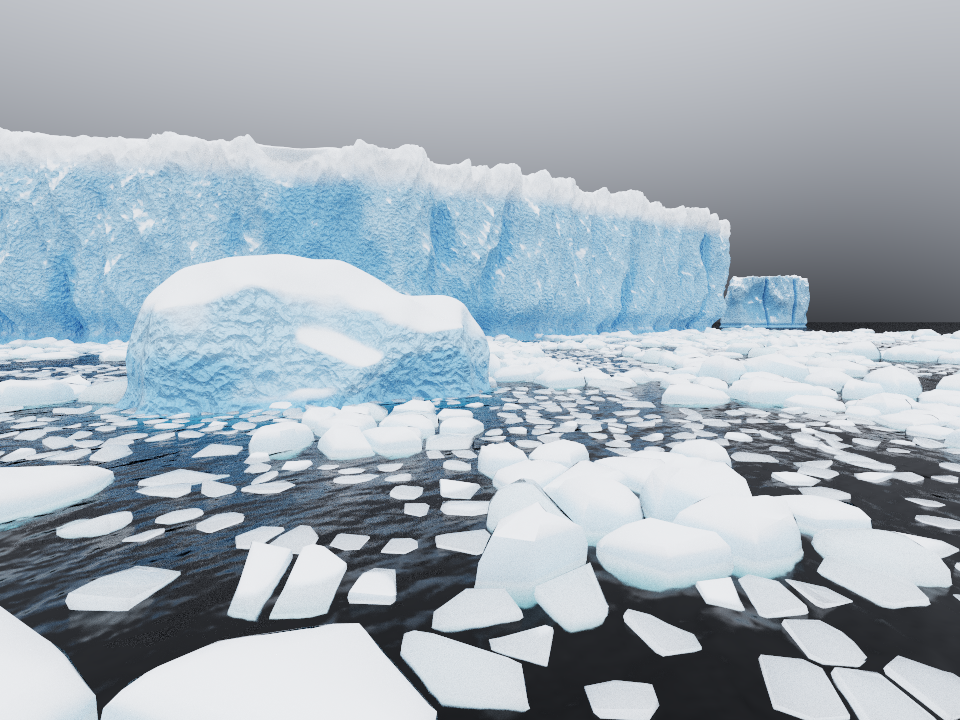
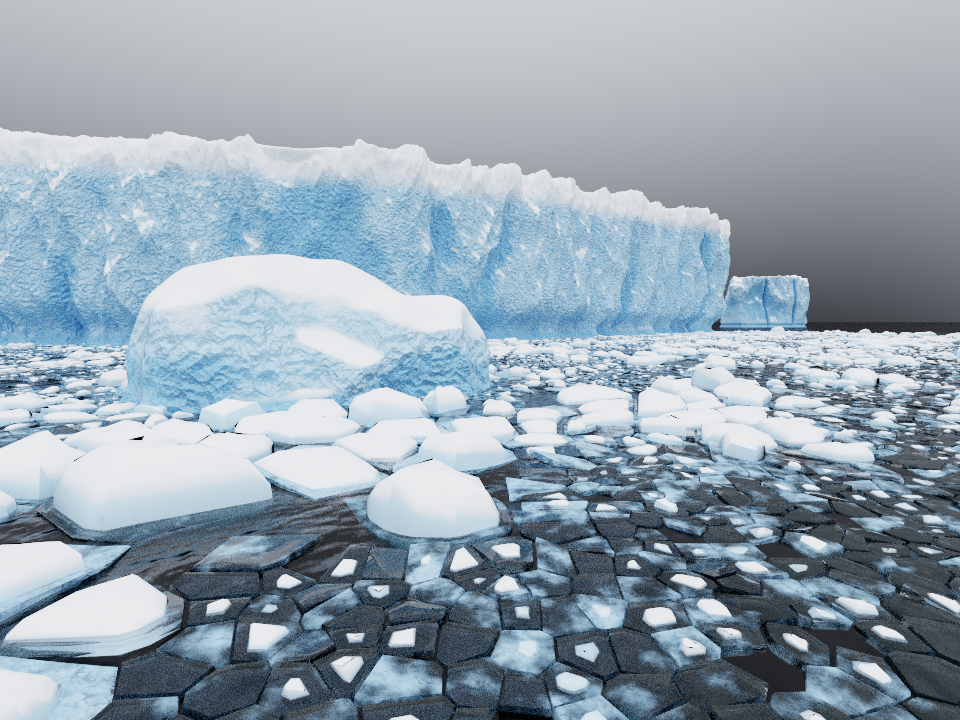
Brash ice: every cell slush, with a shard of ice inside
Every Voronoi cell is now ice (but for lanes of open water): filled
with slush, a thin sheet of clear ice (a dielectric) with cloudy
patches and the dark water showing through, and inside it a shard of
white ice, the cell pulled in with corners broken off. Slushiness goes
by cell size: large cells are nearly all shard, small ones mostly
slush. The scene gives the background a dark ground for rays that pass
down through the clear ice.

Claude-Session: https://claude.ai/code/session_01U8ZZipMaWkahSeibBW3vnt

diff --git a/src/procedural/iceberg.rs b/src/procedural/iceberg.rs
@@ -58,11 +58,11 @@
 //! of glacier ice, each floating at its own waterline, notched there and spreading in a
 //! skirt just below, as the bergs are. With a scene's ocean, every piece rides its waves:
 //! raised or lowered with the surface where it floats, and tipped with its slope.
+use crate::color::Color;
 use crate::geometry::{rand, Pcg32};
 use crate::intersection::Intersection;
 use crate::material::model::{MaterialModel, ScatteredRay};
 use crate::material::snow::{Ice, IceStyle, Snow, SnowStyle};
-use crate::material::subsurface::{Coefficients, Subsurface};
 use crate::na::{Rotation3, Vector3};
 use crate::noise::SeededNoise;
 use crate::procedural::nubis_clouds::smoothstep;
@@ -586,12 +586,12 @@ pub fn creased(mesh: &IndexedMesh, crease: f64) -> IndexedMesh {
 /// far each point was cut back (`fresh`, a texture coordinate), and that picks between
 /// `snow::Ice`'s white, bubbly and blue ice, all the same physics with different bubbles.
 ///
-/// Small pieces (`translucent`) are instead lit through: light wanders inside them
-/// (`material::subsurface`, with ice's own absorption and its bubbles' scattering), so thin
-/// edges glow and thick parts are bluer.
+/// For brash ice (`brash`) it shades white shards standing in slush: a sheet of clear ice
+/// (a dielectric) with cloudy patches, the dark water showing through.
 pub struct IcebergMaterial {
     pub sea_level: f64,
-    body: Option<Subsurface>,
+    /// For brash: the clear ice of its slush.
+    glass: Option<crate::material::dielectric::Dielectric>,
     white: Ice,
     glacier: Ice,
     blue: Ice,
@@ -603,16 +603,12 @@ pub struct IcebergMaterial {
     noise: SeededNoise,
 }
 
-/// The reduced scattering coefficient of a small piece's ice, per metre: light travels a
-/// quarter of a metre between changes of direction.
-pub const ICE_SCATTERING: f64 = 4.;
-
 impl IcebergMaterial {
     pub fn new(sea_level: f64, size: f64, seed: u64) -> IcebergMaterial {
         let clean = |preset: &str, roughness: f64| Ice::new(IceStyle { impurities: Default::default(), roughness, ..IceStyle::preset(preset) });
         IcebergMaterial {
             sea_level,
-            body: None,
+            glass: None,
             white: clean("white", 0.3),
             glacier: clean("glacier", 0.15),
             // Dense ice with few bubbles, as deep in a glacier: a saturated blue.
@@ -624,13 +620,12 @@ impl IcebergMaterial {
         }
     }
 
-    /// Lit through, for small pieces.
-    pub fn translucent(self) -> IcebergMaterial {
+    /// For brash ice: shards of white ice standing in slush, a sheet of clear ice.
+    pub fn brash(self) -> IcebergMaterial {
         IcebergMaterial {
-            body: Some(Subsurface {
-                coefficients: Coefficients::Ice { scattering: ICE_SCATTERING, impurities: Default::default() },
-                g: 0.,
-                refractive_index: crate::material::snow::ICE_REFRACTIVE_INDEX,
+            glass: Some(crate::material::dielectric::Dielectric {
+                refractive_index: crate::spectrum::RefractiveIndex::Constant(crate::material::snow::ICE_REFRACTIVE_INDEX),
+                attenuate: Color::white(),
             }),
             ..self
         }
@@ -685,21 +680,29 @@ impl MaterialModel for IcebergMaterial {
         let outside = r.rd.dot(&intersection.normal) < 0.;
         let i = &intersection.facing(r);
         let f = crate::material::functions::scatter_bsdf;
-        let (snow, fresh) = if self.body.is_some() { (if fresh > 0.5 { 0. } else { snow }, fresh) } else { (snow, fresh) };
+        if let Some(glass) = &self.glass {
+            // Brash: the first texture coordinate says slush, the second how cloudy it is.
+            if fresh > 0.5 {
+                // Clear ice, the dark water showing through, with cloudy patches of bubbles
+                // and of snow frozen in.
+                let p = intersection.point;
+                let cloud = smoothstep(0.35, 0.7, firn + 0.5 * self.noise.fbm(Vector3::new(p.x, 0., p.z) / 0.35, 4));
+                return if rand() < 0.85 * cloud {
+                    let normal = self.bumped(&i.point, &i.normal, &-r.rd.normalize());
+                    f(&self.clear.bsdf(&normal, Some(s)), r, &i.point, s)
+                } else {
+                    glass.scatter(r, intersection, s)
+                };
+            }
+            // A shard: snow on top, white ice at its broken sides.
+            return if outside && rand() < snow {
+                f(&self.snow.bsdf(&i.point, &i.normal, Some(s)), r, &i.point, s)
+            } else {
+                f(&self.white.bsdf(&i.normal, Some(s)), r, &i.point, s)
+            };
+        }
         if outside && rand() < snow {
             return f(&self.snow.bsdf(&i.point, &i.normal, Some(s)), r, &i.point, s);
-        }
-        if let Some(body) = &self.body {
-            // Brash: for it the first texture coordinate says a piece is clear ice.
-            // (Wet pieces are bare: light goes into them, and thin ones show the dark water.)
-            if fresh > 0.5 {
-                return body.scatter(r, intersection, s);
-            }
-            return if outside && rand() < 0.6 * white {
-                f(&self.white.bsdf(&i.normal, Some(s)), r, &i.point, s)
-            } else {
-                body.scatter(r, intersection, s)
-            };
         }
         let u = rand();
         let ice = if u < white { &self.white } else if u < white + blue { &self.blue } else { &self.glacier };
@@ -841,16 +844,19 @@ impl FloeField {
         }
     }
 
-    /// Brash ice, by partitioning the sea's surface: sites are scattered at a density that
-    /// varies from place to place (a coarse grid of `max_size` cells, each split into 1, 4 or
-    /// 16, or for slush into many), and the surface divided into their Voronoi cells, so the
-    /// cells' sizes vary as widely. Each coarse cell is ice, slush or open water, by a random
-    /// draw shifted by a smooth noise so that like gathers with like (floes in rafts, lanes of
-    /// water between). An ice cell becomes one angular chunk: its Voronoi polygon, pulled in
-    /// from its neighbours, with corners broken off by random chords, extruded to a slab that
-    /// floats with a ninth of it above water, a little tilted, its top lumpy with snow. Slush
-    /// is the same at a small scale: small thin fragments, most of them wet and glossy, with
-    /// gaps between.
+    /// Brash ice, by partitioning the sea's surface. Sites are scattered at a density that
+    /// varies from place to place (a coarse grid of `max_size` cells, each split 1, 2, 4 or 8
+    /// ways a side), and the surface divided into their Voronoi cells, so the cells' sizes
+    /// vary as widely. Every cell is ice, but for a share left as open water (by a draw
+    /// shifted by a smooth noise, so that the water gathers in lanes):
+    ///
+    /// - the cell is filled with slush: a thin sheet of clear ice at the water's surface,
+    ///   glassy, with the dark water showing through and cloudy white patches;
+    /// - and inside it stands a shard of white ice: the cell's polygon pulled in, with corners
+    ///   broken off by random chords, extruded to a slab with a hummocked, snowy top.
+    ///
+    /// How slushy a cell is goes by its size: a large cell is nearly all shard, a small one
+    /// mostly slush with a small shard or none.
     fn brash(&self) -> IndexedMesh {
         let mut rng = Pcg32::new(self.seed, 47);
         let noise = SeededNoise::new(self.seed.wrapping_add(7));
@@ -861,37 +867,24 @@ impl FloeField {
         let nz = (self.extent.1 / coarse).ceil().max(1.) as usize;
         let clump_size = 5. * coarse;
         let p_ice = self.concentration.clamp(0., 1.);
-        let p_slush = 0.6 * (1. - p_ice);
-        // Sites: position, kind (0 water, 1 ice, 2 slush), and the spacing they were laid at.
-        let mut sites: Vec<(f64, f64, u8, f64)> = vec![];
+        // Sites: position, whether ice, and the spacing they were laid at.
+        let mut sites: Vec<(f64, f64, bool, f64)> = vec![];
         let mut buckets: Vec<Vec<usize>> = vec![vec![]; nx * nz];
-        let fine = ((coarse / self.min_size).round() as usize).clamp(2, 10);
+        let finest = ((coarse / self.min_size).round() as usize).clamp(1, 8);
         for j in 0..nz {
             for i in 0..nx {
                 let (cx, cz) = (x0 + (i as f64 + 0.5) * coarse, z0 + (j as f64 + 0.5) * coarse);
                 let n = clumps.fbm(Vector3::new(cx, 0., cz) / clump_size, 3);
-                let v = rng.next_f64() + 1.5 * self.clumping * n;
-                let kind = if v > 1. - p_ice { 1 } else if v > 1. - p_ice - p_slush { 2 } else { 0 };
-                // How finely this cell is split: ice into one, four or sixteen pieces (large
-                // ones rarer), slush finely, water coarsely (it only shapes its neighbours).
-                let split = match kind {
-                    1 => { let u = rng.next_f64(); if u < 0.2 { 1 } else if u < 0.6 { 2 } else { 4 } },
-                    2 => fine,
-                    _ => 2,
-                };
+                let u = rng.next_f64();
+                let split = (if u < 0.1 { 1 } else if u < 0.35 { 2 } else if u < 0.7 { 4 } else { 8 }).min(finest);
                 let step = coarse / split as f64;
                 for b in 0..split {
                     for a in 0..split {
                         let x = x0 + i as f64 * coarse + (a as f64 + 0.15 + 0.7 * rng.next_f64()) * step;
                         let z = z0 + j as f64 * coarse + (b as f64 + 0.15 + 0.7 * rng.next_f64()) * step;
-                        // Slush is part fragments, part water; a floe's edge crumbles too.
-                        let k = match kind {
-                            2 => if rng.next_f64() < 0.6 { 2 } else { 0 },
-                            1 => if split > 1 && rng.next_f64() < 0.12 { 0 } else { 1 },
-                            _ => 0,
-                        };
+                        let ice = rng.next_f64() + 1.5 * self.clumping * n > 1. - p_ice;
                         buckets[j * nx + i].push(sites.len());
-                        sites.push((x, z, k, step));
+                        sites.push((x, z, ice, step));
                     }
                 }
             }
@@ -916,66 +909,19 @@ impl FloeField {
             }
             out
         };
-        for (index, &(sx, sz, kind, step)) in sites.iter().enumerate() {
-            if kind == 0 { continue; }
-            // The site's Voronoi cell: a square about it, cut by the bisector with each site near.
-            let w = 1.5 * step;
-            let mut poly = vec![(sx - w, sz - w), (sx - w, sz + w), (sx + w, sz + w), (sx + w, sz - w)];
-            let (ci, cj) = ((((sx - x0) / coarse) as usize).min(nx - 1), (((sz - z0) / coarse) as usize).min(nz - 1));
-            for j in cj.saturating_sub(1)..=(cj + 1).min(nz - 1) {
-                for i in ci.saturating_sub(1)..=(ci + 1).min(nx - 1) {
-                    for &o in &buckets[j * nx + i] {
-                        if o == index { continue; }
-                        let (ox, oz, _, _) = sites[o];
-                        let (dx, dz) = (ox - sx, oz - sz);
-                        let len = dx.hypot(dz);
-                        if len < 1e-9 || len > 4. * w { continue; }
-                        poly = clip(&poly, (sx + dx / 2., sz + dz / 2.), (dx / len, dz / len));
-                        if poly.len() < 3 { break; }
-                    }
-                }
-            }
-            if poly.len() < 3 { continue; }
-            // Pulled in from its neighbours about its centroid (slush more, leaving gaps).
-            let n = poly.len() as f64;
-            let (gx, gz) = poly.iter().fold((0., 0.), |a, p| (a.0 + p.0 / n, a.1 + p.1 / n));
-            let shrink = if kind == 2 { 0.55 + 0.35 * rng.next_f64() } else { 0.86 + 0.1 * rng.next_f64() };
-            let mut poly: Vec<(f64, f64)> = poly.iter().map(|p| (gx + (p.0 - gx) * shrink, gz + (p.1 - gz) * shrink)).collect();
-            // Corners broken off by chords: an angular chunk.
-            let radius = poly.iter().map(|p| (p.0 - gx).hypot(p.1 - gz)).fold(0., f64::max);
-            for _ in 0..2 + (rng.next_f64() * 4.) as usize {
-                let a = rng.next_f64() * TAU;
-                let r = radius * (0.45 + 0.45 * rng.next_f64());
-                let cut = clip(&poly, (gx + a.cos() * r, gz + a.sin() * r), (a.cos(), a.sin()));
-                if cut.len() >= 3 { poly = cut; }
-            }
-            let radius = poly.iter().map(|p| (p.0 - gx).hypot(p.1 - gz)).fold(0., f64::max);
-            if radius < 0.03 { continue; }
-            // A slab: thick for its width if it is glacier ice broken small, thin for slush.
-            let thick = if kind == 2 { radius * (0.25 + 0.3 * rng.next_f64()) } else { (radius * (0.45 + 0.5 * rng.next_f64())).min(2.5) };
-            let (top, bottom) = (0.115 * thick, -0.885 * thick);
-            let bevel = (0.25 * thick).min(0.3 * radius);
-            // Ice broken from a berg is a lump, not a tile: it stands up out of the water in
-            // hummocks (its bulk hangs below). Slush lies flat.
-            let lumpy = if kind == 2 { 0.3 } else { 1.2 + 2.5 * rng.next_f64().powi(2) };
-            let start = positions.len();
+        // A closed solid from rings of a polygon's outline about (gx, gz): each ring is how far
+        // in towards the centre and its height; with a middle point above and below. `bump`
+        // raises a point of ring k.
+        let solid = |poly: &[(f64, f64)], (gx, gz): (f64, f64), rings: &[(f64, f64)], bump: &dyn Fn(f64, f64, usize) -> f64| -> (Vec<Vector3<f64>>, Vec<[usize; 3]>) {
             let m = poly.len();
-            // Rings of the outline: (how far in towards the centroid, height), from the top's
-            // middle down round the edge to the bottom's middle. The top is lumpy.
-            let rings = [(0.45, top + 0.6 * bevel), (0.8, top + 0.4 * bevel), (0.97, top), (1., top - bevel), (0.92, 0.5 * bottom), (0.6, bottom)];
-            let bump = |x: f64, z: f64, k: usize| if k < 3 {
-                let inward = [1., 0.75, 0.3][k];
-                lumpy * bevel * inward * (0.6 * noise.fbm(Vector3::new(x, 0.3 * index as f64, z) / (0.5 * radius), 3) + 0.5).max(0.)
-            } else { 0. };
-            let mut piece: Vec<Vector3<f64>> = vec![];
-            piece.push(Vector3::new(gx, top + 0.7 * bevel + 1.2 * bump(gx, gz, 0), gz));
+            let mut piece = vec![Vector3::new(gx, rings[0].1 + bump(gx, gz, 0), gz)];
             for (k, &(f, y)) in rings.iter().enumerate() {
-                for &(x, z) in &poly {
+                for &(x, z) in poly {
                     let (px, pz) = (gx + (x - gx) * f, gz + (z - gz) * f);
                     piece.push(Vector3::new(px, y + bump(px, pz, k), pz));
                 }
             }
-            piece.push(Vector3::new(gx, bottom, gz));
+            piece.push(Vector3::new(gx, rings[rings.len() - 1].1, gz));
             let mut tris: Vec<[usize; 3]> = vec![];
             for k in 0..m {
                 let k1 = (k + 1) % m;
@@ -991,20 +937,78 @@ impl FloeField {
             // Wound outwards, whichever way round the polygon came.
             let volume: f64 = tris.iter().map(|t| piece[t[0]].dot(&piece[t[1]].cross(&piece[t[2]]))).sum();
             if volume < 0. { for t in tris.iter_mut() { t.swap(1, 2); } }
-            // Tilted a little (small pieces more), and riding the waves.
-            let tip = (if kind == 2 { 0.25 } else { 0.06 + 0.1 / (1. + radius) }) * rng.next_f64();
-            let lean = rng.next_f64() * TAU;
-            let tilt = Rotation3::from_axis_angle(&crate::na::Unit::new_normalize(Vector3::new(lean.cos(), 0., lean.sin())), tip);
+            (piece, tris)
+        };
+        for (index, &(sx, sz, ice, step)) in sites.iter().enumerate() {
+            if !ice { continue; }
+            // The site's Voronoi cell: a square about it, cut by the bisector with each site near.
+            let w = 1.5 * step;
+            let mut cell = vec![(sx - w, sz - w), (sx - w, sz + w), (sx + w, sz + w), (sx + w, sz - w)];
+            let (ci, cj) = ((((sx - x0) / coarse) as usize).min(nx - 1), (((sz - z0) / coarse) as usize).min(nz - 1));
+            for j in cj.saturating_sub(1)..=(cj + 1).min(nz - 1) {
+                for i in ci.saturating_sub(1)..=(ci + 1).min(nx - 1) {
+                    for &o in &buckets[j * nx + i] {
+                        if o == index || cell.len() < 3 { continue; }
+                        let (ox, oz, _, _) = sites[o];
+                        let (dx, dz) = (ox - sx, oz - sz);
+                        let len = dx.hypot(dz);
+                        if len < 1e-9 || len > 4. * w { continue; }
+                        cell = clip(&cell, (sx + dx / 2., sz + dz / 2.), (dx / len, dz / len));
+                    }
+                }
+            }
+            if cell.len() < 3 { continue; }
+            let n = cell.len() as f64;
+            let centre = cell.iter().fold((0., 0.), |a, p| (a.0 + p.0 / n, a.1 + p.1 / n));
+            let (gx, gz) = centre;
+            let radius = cell.iter().map(|p| (p.0 - gx).hypot(p.1 - gz)).fold(0., f64::max);
+            if radius < 0.03 { continue; }
             let (rise, ride) = self.ride(&Floe { x: gx, z: gz, radius });
             let pivot = Vector3::new(gx, 0., gz);
-            for p in piece.iter_mut() {
-                *p = ride * (tilt * (*p - pivot)) + pivot + Vector3::new(0., self.sea_level + rise, 0.);
+            let mut emit = |piece: Vec<Vector3<f64>>, tris: Vec<[usize; 3]>, tilt: Rotation3<f64>, uv: (f64, f64)| {
+                let start = positions.len();
+                texcoords.extend(std::iter::repeat_n(crate::na::Vector2::new(uv.0, uv.1), piece.len()));
+                positions.extend(piece.iter().map(|p| ride * (tilt * (p - pivot)) + pivot + Vector3::new(0., self.sea_level + rise, 0.)));
+                triangles.extend(tris.iter().map(|t| t.map(|i| i + start)));
+            };
+            // Small cells are slushy; large ones nearly all shard.
+            let slushy = 1. - smoothstep(0.6 * self.min_size, 0.45 * coarse, radius);
+            // The slush: a thin sheet of clear ice over the cell, just proud of the water.
+            let sheet = 0.06 + 0.1 * rng.next_f64();
+            let gap = 0.93 + 0.06 * rng.next_f64();
+            let ripple = |x: f64, z: f64, k: usize| if k < 2 { 0.03 * noise.fbm(Vector3::new(x, 0., z) / 0.5, 3) } else { 0. };
+            let rings = [(0.6 * gap, 0.035), (0.97 * gap, 0.03), (gap, 0.01), (0.97 * gap, 0.03 - sheet)];
+            let (piece, tris) = solid(&cell, centre, &rings, &ripple);
+            // (Its second coordinate is how cloudy this cell's slush is.)
+            emit(piece, tris, Rotation3::identity(), (1., 0.2 + 0.6 * rng.next_f64() * (1. - 0.5 * slushy)));
+            pieces += 1;
+            // The shard: the cell pulled in (more, the slushier), its corners broken off by chords.
+            let scale = (0.9 - 0.75 * slushy * (0.4 + 0.6 * rng.next_f64())) * (0.9 + 0.1 * rng.next_f64());
+            if scale < 0.25 || rng.next_f64() < 0.5 * slushy { continue; }
+            let mut poly: Vec<(f64, f64)> = cell.iter().map(|p| (gx + (p.0 - gx) * scale, gz + (p.1 - gz) * scale)).collect();
+            for _ in 0..2 + (rng.next_f64() * 4.) as usize {
+                let a = rng.next_f64() * TAU;
+                let r = scale * radius * (0.45 + 0.45 * rng.next_f64());
+                let cut = clip(&poly, (gx + a.cos() * r, gz + a.sin() * r), (a.cos(), a.sin()));
+                if cut.len() >= 3 { poly = cut; }
             }
-            // Slush is mostly wet ice melted smooth; the odd small floe too.
-            let wet = rng.next_f64() < if kind == 2 { 0.75 } else { 0.08 };
-            texcoords.extend(std::iter::repeat_n(crate::na::Vector2::new(wet as u8 as f64, 0.), piece.len()));
-            triangles.extend(tris.iter().map(|t| t.map(|i| i + start)));
-            positions.extend(piece);
+            let r = poly.iter().map(|p| (p.0 - gx).hypot(p.1 - gz)).fold(0., f64::max);
+            if r < 0.05 { continue; }
+            // A slab that floats with a ninth of it above water, and stands up in hummocks.
+            let thick = (r * (0.45 + 0.5 * rng.next_f64())).min(2.5);
+            let (top, bottom) = (0.115 * thick, -0.885 * thick);
+            let bevel = (0.25 * thick).min(0.3 * r);
+            let lumpy = 1.2 + 2.5 * rng.next_f64().powi(2);
+            let bump = |x: f64, z: f64, k: usize| if k < 3 {
+                let inward = [1., 0.75, 0.3][k];
+                lumpy * bevel * inward * (0.6 * noise.fbm(Vector3::new(x, 0.3 * index as f64, z) / (0.5 * r), 3) + 0.5).max(0.)
+            } else { 0. };
+            let rings = [(0.45, top + 0.6 * bevel), (0.8, top + 0.4 * bevel), (0.97, top), (1., top - bevel), (0.92, 0.5 * bottom), (0.6, bottom)];
+            let (piece, tris) = solid(&poly, centre, &rings, &bump);
+            let lean = rng.next_f64() * TAU;
+            let tip = (0.06 + 0.2 / (1. + r)) * rng.next_f64();
+            let tilt = Rotation3::from_axis_angle(&crate::na::Unit::new_normalize(Vector3::new(lean.cos(), 0., lean.sin())), tip);
+            emit(piece, tris, tilt, (0., 0.));
             pieces += 1;
         }
         println!("Brash: {} pieces, {} triangles", pieces, triangles.len());

diff --git a/src/scenefile.rs b/src/scenefile.rs
@@ -2693,7 +2693,7 @@ impl SceneFile {
         };
         let own: Box<dyn MaterialModel + Sync + Send> = match field.style {
             FloeStyle::Slab => Box::new(FloeMaterial::new(seed)),
-            FloeStyle::Brash => Box::new(IcebergMaterial::new(sea_level, 2., seed).translucent()),
+            FloeStyle::Brash => Box::new(IcebergMaterial::new(sea_level, 2., seed).brash()),
         };
         rock::object(&[field.mesh()], medium(own))
     }

diff --git a/docs/snow-and-ice.md b/docs/snow-and-ice.md
@@ -153,13 +153,19 @@ and white ice at the sides.
 
 `"style": "brash"` makes brash ice instead, by partitioning the sea's surface. Sites are
 scattered at a density that varies from place to place, and the surface is divided into their
-Voronoi cells, so cell sizes vary widely (`size` gives the smallest and largest). Each region
-is ice, slush or open water; like gathers with like (more so with higher `clumping`), giving
-rafts of floes with lanes of water between. `concentration` is the share of ice.
+Voronoi cells, so cell sizes vary widely (`size` gives the smallest and largest). Every cell
+is ice, except a share left as open water (`concentration` is the share of ice; the water
+gathers in lanes, more so with higher `clumping`).
 
-- An ice cell becomes one angular chunk: its polygon with corners broken off, extruded to a
-  slab with a hummocked, snowy top.
-- Slush is the same at a small scale: thin wet fragments with gaps.
+- Each cell is filled with slush: a thin sheet of clear ice at the water's surface, glassy,
+  with the dark water showing through and cloudy white patches.
+- Inside it stands a shard of white ice: the cell's polygon pulled in, with corners broken
+  off, extruded to a slab with a hummocked, snowy top.
+- How slushy a cell is goes by its size. A large cell is nearly all shard; a small one is
+  mostly slush with a small shard or none.
+
+Give the background a dark `ground` (the colour of deep water), as rays that pass down
+through the clear ice end there.
 
 In a scene with an ocean, icebergs and floes float on its waves: each piece rises and falls
 with the surface where it floats, and small pieces tip with its slope. (Pieces as large as the
